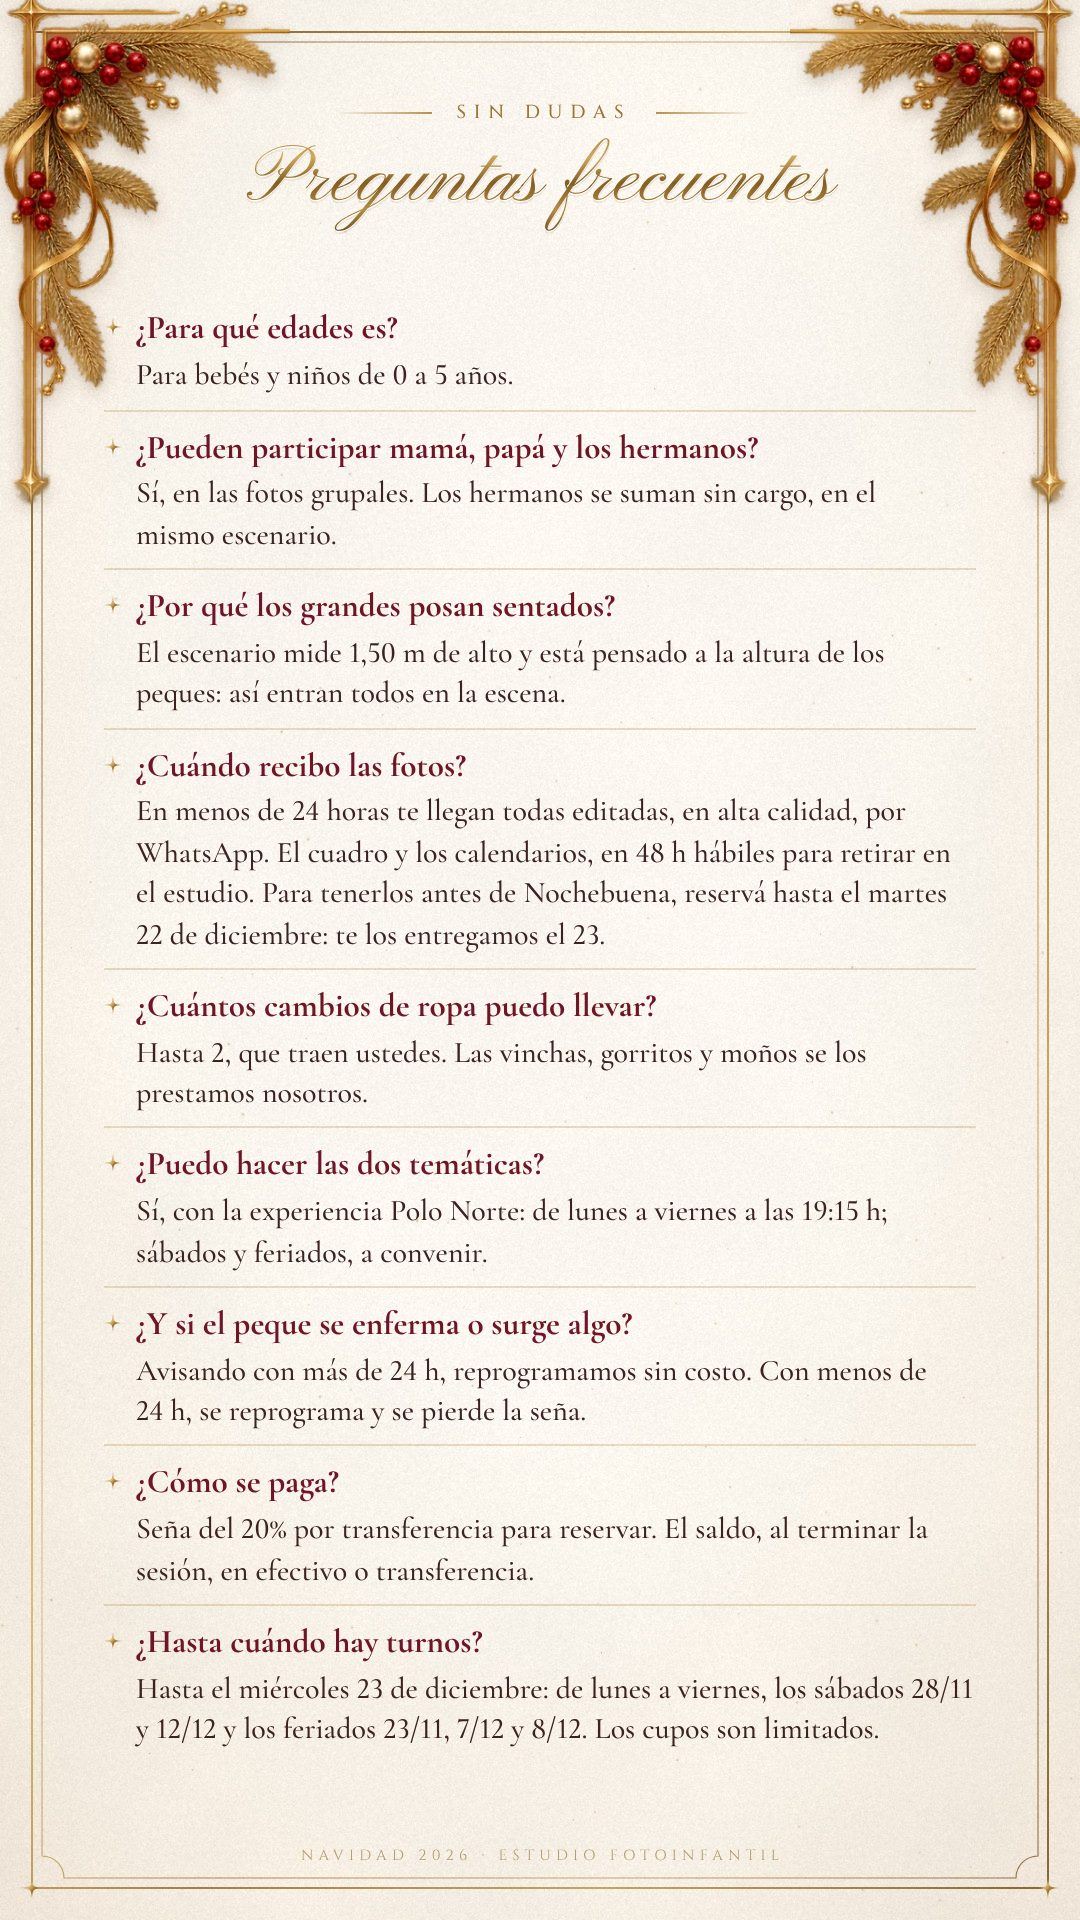
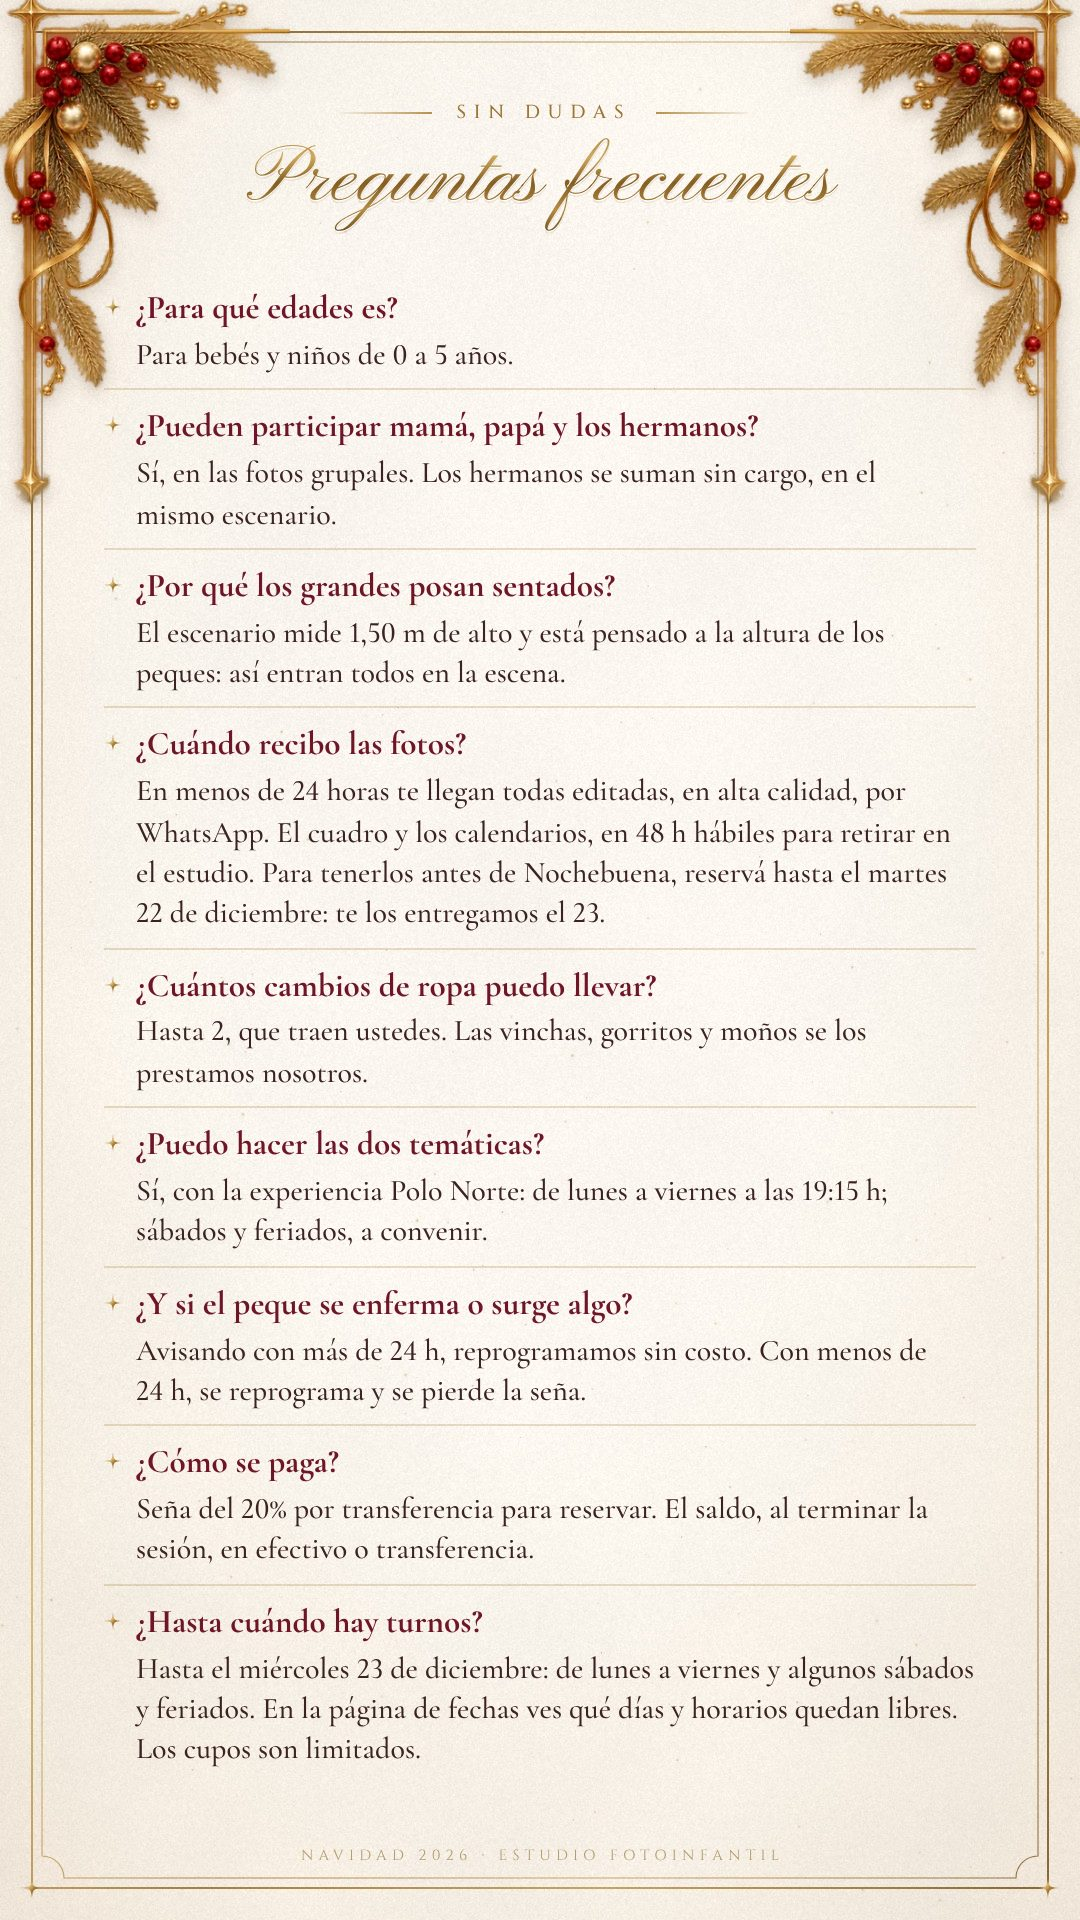
Navidad 2026 (navidad2): el calendario lee la agenda del panel
Días completos, días sin turnos (bloqueados en el panel) y «Próximos turnos libres» salen de la misma agenda que usa el panel (grilla + horarios extra − bloqueos − turnos tomados), en la web y en el PDF. Si no se puede leer la agenda, queda el calendario de antes.

Claude-Session: https://claude.ai/code/session_016rWcWKPNL1gNVstxUwshhh

Changed region(s): [[0.1222, 0.1562, 0.8861, 0.9375], [0.7028, 0.625, 0.7333, 0.6562], [0.7028, 0.25, 0.7333, 0.2812]]

diff --git a/navidad2/index.html b/navidad2/index.html
@@ -11,13 +11,13 @@
 <meta property="og:site_name" content="Estudio Fotoinfantil">
 <meta property="og:title" content="Navidad 2026 · Una propuesta pensada para tu familia">
 <meta property="og:description" content="Sesiones navideñas en Estudio Fotoinfantil · Cupos limitados">
-<meta property="og:image" content="https://estudiofotoinfantil.github.io/WebEstudio/navidad2/og.jpg?v=6e566b9e">
+<meta property="og:image" content="https://estudiofotoinfantil.github.io/WebEstudio/navidad2/og.jpg?v=6bbf0fc5">
 <meta property="og:image:width" content="1200">
 <meta property="og:image:height" content="630">
 <meta property="og:url" content="https://estudiofotoinfantil.github.io/WebEstudio/navidad2/">
 <meta name="twitter:card" content="summary_large_image">
-<link rel="icon" type="image/png" href="assets/favicon.png?v=6e566b9e">
-<link rel="apple-touch-icon" href="assets/apple-touch-icon.png?v=6e566b9e">
+<link rel="icon" type="image/png" href="assets/favicon.png?v=6bbf0fc5">
+<link rel="apple-touch-icon" href="assets/apple-touch-icon.png?v=6bbf0fc5">
 <link rel="preload" href="fonts/pinyon-script-latin-400-normal.woff2" as="font" type="font/woff2" crossorigin>
 <link rel="preload" href="fonts/ballet-static-400.woff2" as="font" type="font/woff2" crossorigin>
 <link rel="preload" href="fonts/cormorant-garamond-latin-500-italic.woff2" as="font" type="font/woff2" crossorigin>
@@ -40,8 +40,8 @@
   window.__fitK = k;
 })();
 </script>
-<script>window.NAV_V='6e566b9e';</script>
-<script src="config.js?v=6e566b9e"></script>
+<script>window.NAV_V='6bbf0fc5';</script>
+<script src="config.js?v=6bbf0fc5"></script>
 <style>
 @font-face{font-family:"Ballet";src:url(fonts/ballet-static-400.woff2) format("woff2");font-weight:400;font-display:block}
 @font-face{font-family:"Pinyon";src:url(fonts/pinyon-script-latin-400-normal.woff2) format("woff2");font-display:block}
@@ -286,9 +286,9 @@ ul.inc li .note{display:block;font-style:italic;font-weight:500;font-size:13px;c
 .cal .mh{display:flex;align-items:center;gap:10px;margin-bottom:5px}
 .cal .mh .rule{flex:1;height:1px;background:linear-gradient(90deg,#c6aa72,#f4ede2)}
 .cal .mh .rule.l{background:linear-gradient(270deg,#c6aa72,#f4ede2)}
-.cal .grid{display:grid;grid-template-columns:repeat(7,1fr);gap:5px}
+.cal .grid{display:grid;grid-template-columns:repeat(7,1fr);gap:4px}
 .cal .dow{text-align:center;font-family:"Cinzel";font-weight:600;font-size:8px;letter-spacing:.18em;color:var(--gold-txt);padding:2px 0 3px}
-.cal .d{position:relative;height:32px;border-radius:2px;display:flex;align-items:center;justify-content:center;font-family:"Cormorant";font-weight:600;font-size:15.5px}
+.cal .d{position:relative;height:28px;border-radius:2px;display:flex;align-items:center;justify-content:center;font-family:"Cormorant";font-weight:600;font-size:15.5px}
 .cal .d.wk{background:rgba(255,253,249,.92);box-shadow:inset 0 0 0 .8px rgba(176,138,70,.6);color:var(--ink)}
 .cal .d.we,.cal .d.fe{background:linear-gradient(180deg,#83192b,#5a0c1a);color:#f3dc9c;box-shadow:inset 0 0 0 .8px rgba(222,190,120,.55)}
 .cal .d.off{background:none;color:rgba(108,82,70,.38);box-shadow:inset 0 0 0 .6px rgba(176,138,70,.18)}
@@ -311,6 +311,9 @@ ul.inc li .note{display:block;font-style:italic;font-weight:500;font-size:13px;c
 .lg i{font-weight:500;color:var(--ink-soft)}
 .lg .ck{font-family:"Cinzel";font-size:9px;letter-spacing:.14em;color:var(--wine)}
 .lgrow{display:flex;gap:28px}
+.libres{padding:7px 0 6px;border-top:1px solid rgba(176,138,70,.3);border-bottom:1px solid rgba(176,138,70,.3);text-align:center}
+.libres .lt{font-family:"Cinzel";font-weight:600;font-size:8.6px;letter-spacing:.2em;color:var(--wine);margin-bottom:3px}
+.libres .ll{font-family:"Cormorant";font-weight:600;font-size:14.6px;line-height:1.35;color:var(--ink);white-space:nowrap;overflow:hidden;min-height:19px}
 .lg.pn{gap:8px;font-weight:500;color:var(--ink-soft);font-style:italic;padding-top:6px;border-top:1px solid rgba(176,138,70,.3);align-items:flex-start;line-height:1.3}
 .lg.pn>svg{flex:0 0 9px;width:9px;height:9px;margin-top:4px}
 .lg.pn b{font-style:normal;color:var(--wine)}
@@ -1464,7 +1467,7 @@ html.anim .pw.in.cover-w .rv{transform:none}
         
           <div class="d wk" data-date="2026-11-20"><span>20</span></div>
         
-          <div class="d off" data-date="2026-11-21"><span>21</span></div>
+          <div class="d we" data-date="2026-11-21"><span>21</span></div>
         
           <div class="d off" data-date="2026-11-22"><span>22</span></div>
         
@@ -1525,7 +1528,7 @@ html.anim .pw.in.cover-w .rv{transform:none}
         
           <div class="d wk" data-date="2026-12-04"><span>4</span></div>
         
-          <div class="d off" data-date="2026-12-05"><span>5</span></div>
+          <div class="d we" data-date="2026-12-05"><span>5</span></div>
         
           <div class="d off" data-date="2026-12-06"><span>6</span></div>
         
@@ -1553,7 +1556,7 @@ html.anim .pw.in.cover-w .rv{transform:none}
         
           <div class="d wk" data-date="2026-12-18"><span>18</span></div>
         
-          <div class="d off" data-date="2026-12-19"><span>19</span></div>
+          <div class="d we" data-date="2026-12-19"><span>19</span></div>
         
           <div class="d off" data-date="2026-12-20"><span>20</span></div>
         
@@ -1594,11 +1597,17 @@ html.anim .pw.in.cover-w .rv{transform:none}
   </div>
   <div class="legend">
     <div class="lg"><span class="k wk"></span><span>Lunes a viernes · <b>18:15 y 19:15&nbsp;h</b></span></div>
-    <div class="lg"><span class="k we"></span><span>Sábados 28/11 y 12/12 y feriados · <b>horario a coordinar</b></span></div>
+    <div class="lg"><span class="k we"></span><span>Sábados y feriados · <b>horarios según el día</b></span></div>
     <div class="lgrow">
       <div class="lg"><span class="k we"><svg viewBox="-1 -1 2 2" aria-hidden="true"><use href="#star4" x="-1" y="-1" width="2" height="2" fill="url(#gL)"/></svg></span>Feriado</div>
       <div class="lg"><span class="k fullk"></span><span class="ck">COMPLETO</span></div>
       <div class="lg"><span class="k off"></span><i>Sin turnos</i></div>
+    </div>
+    <div class="libres">
+      <div class="lt">PRÓXIMOS TURNOS LIBRES</div>
+      <div class="ll fitline" data-line="lib1" data-fs="14.6">Consultanos por WhatsApp los turnos libres</div>
+      <div class="ll fitline" data-line="lib2" data-fs="14.6"></div>
+      <div class="ll fitline" data-line="lib3" data-fs="14.6"></div>
     </div>
     <div class="lg pn"><svg viewBox="-1 -1 2 2" aria-hidden="true"><use href="#star4" x="-1" y="-1" width="2" height="2" fill="url(#gD)"/></svg><span>Destello de lunes a viernes: <b>$65.000</b>. Sábados y feriados: <b>$79.000</b>.</span></div>
     <div class="lg pn"><svg viewBox="-1 -1 2 2" aria-hidden="true"><use href="#star4" x="-1" y="-1" width="2" height="2" fill="url(#gD)"/></svg><span>Polo Norte: de lunes a viernes a las <b>19:15&nbsp;h</b>; sábados y feriados, a convenir.</span></div>
@@ -1730,7 +1739,7 @@ html.anim .pw.in.cover-w .rv{transform:none}
       
       <div class="qa"><div class="q"><svg viewBox="-1 -1 2 2" aria-hidden="true"><use href="#star4" x="-1" y="-1" width="2" height="2" fill="url(#gD)"/></svg>¿Cómo se paga?</div><div class="a">Seña del 20% por transferencia para reservar. El saldo, al terminar la sesión, en efectivo o transferencia.</div></div>
       
-      <div class="qa"><div class="q"><svg viewBox="-1 -1 2 2" aria-hidden="true"><use href="#star4" x="-1" y="-1" width="2" height="2" fill="url(#gD)"/></svg>¿Hasta cuándo hay turnos?</div><div class="a">Hasta el miércoles 23 de diciembre: de lunes a viernes, los sábados 28/11 y 12/12 y los feriados 23/11, 7/12 y 8/12. Los cupos son limitados.</div></div>
+      <div class="qa"><div class="q"><svg viewBox="-1 -1 2 2" aria-hidden="true"><use href="#star4" x="-1" y="-1" width="2" height="2" fill="url(#gD)"/></svg>¿Hasta cuándo hay turnos?</div><div class="a">Hasta el miércoles 23 de diciembre: de lunes a viernes y algunos sábados y feriados. En la página de fechas ves qué días y horarios quedan libres. Los cupos son limitados.</div></div>
       
     </div>
   </div>
@@ -1812,7 +1821,7 @@ html.anim .pw.in.cover-w .rv{transform:none}
 </div>
 <div class="toast" id="toast" role="status" aria-live="polite"></div>
 
-<script src="app.js?v=6e566b9e" defer></script>
+<script src="app.js?v=6bbf0fc5" defer></script>
 <script src="../seguimiento.js?v=20261125" defer></script>
 </body>
 </html>

diff --git a/navidad2/app.js b/navidad2/app.js
@@ -111,15 +111,77 @@
   $$('[data-regalo]').forEach(function (el) { el.hidden = !regalo; });
 
   var LAST = C.ultimoDia || '2026-12-23';
-  $$('.cal .d[data-date]').forEach(function (d) {
-    var ds = d.getAttribute('data-date');
-    if (d.classList.contains('off')) return;
-    if (ds < HOY || ds > LAST) { d.className = 'd off'; return; }
-    if (completos === 'all' || completos.indexOf(ds) >= 0) {
-      d.classList.remove('wk', 'we', 'fe');
-      d.classList.add('full');
+  /* Calendario vinculado a la agenda del panel (26/11/2026): los mismos horarios que ve el panel
+     (grilla de lunes a viernes y de sábados + horarios extra − horarios y días bloqueados − turnos tomados).
+     Día sin horarios = sin turnos; día con horarios pero todos tomados = COMPLETO.
+     Si no se puede leer la agenda, quedan los días de config.js (completos y sinTurnos). */
+  var sinTurnos = PDFBG ? [] : (C.sinTurnos || []).slice();
+  var vivo = false;
+  function marcarCalendario() {
+    $$('.cal .d[data-date]').forEach(function (d) {
+      var ds = d.getAttribute('data-date');
+      if (d.getAttribute('data-base') == null) d.setAttribute('data-base', d.className);
+      var base = d.getAttribute('data-base');
+      d.className = base;
+      if (/\boff\b/.test(base)) return;
+      if (ds < HOY || ds > LAST || (vivo && ds === HOY) || sinTurnos.indexOf(ds) >= 0) { d.className = 'd off'; return; }
+      if (completos === 'all' || completos.indexOf(ds) >= 0) {
+        d.classList.remove('wk', 'we', 'fe');
+        d.classList.add('full');
+      }
+    });
+  }
+  marcarCalendario();
+
+  var DIAS = ['Dom', 'Lun', 'Mar', 'Mié', 'Jue', 'Vie', 'Sáb'];
+  function horaTxt(h) { return h === '18:00' ? '18:15' : (h === '19:00' ? '19:15' : h); }   // en la propuesta, 18:15 y 19:15
+  function listaHoras(hs) {
+    var t = hs.map(function (h) { h = horaTxt(h); return /:00$/.test(h) ? h.slice(0, -3) : h; });
+    return (t.length > 1 ? t.slice(0, -1).join(', ') + ' y ' + t[t.length - 1] : t[0]) + ' h';
+  }
+  function sumarDia(ds) {
+    var d = new Date(ds + 'T12:00:00Z'); d.setUTCDate(d.getUTCDate() + 1);
+    return d.toISOString().slice(0, 10);
+  }
+  function aplicarAgenda(a) {
+    var grilla = a.grilla || {}, sem = grilla.semana || [], sab = grilla.sabado || [];
+    var bloqDia = {}, bloqHora = {}, extra = {}, ocup = a.ocupados || {};
+    (a.bloqueos || []).forEach(function (b) {
+      if (!b || !b.fecha) return;
+      if (b.tipo === 'dia') bloqDia[b.fecha] = 1;
+      else if (b.tipo === 'slot' && b.horario) (bloqHora[b.fecha] = bloqHora[b.fecha] || []).push(b.horario);
+      else if (b.tipo === 'slot_extra' && b.horario) (extra[b.fecha] = extra[b.fecha] || []).push(b.horario);
+    });
+    var full = [], off = [], prox = [];
+    for (var ds = sumarDia(HOY); ds <= LAST; ds = sumarDia(ds)) {
+      var dow = new Date(ds + 'T12:00:00Z').getUTCDay();
+      var hs = bloqDia[ds] ? [] : (dow === 6 ? sab.slice() : (dow >= 1 && dow <= 5 ? sem.slice() : []));
+      if (!bloqDia[ds]) (extra[ds] || []).forEach(function (h) { if (hs.indexOf(h) < 0) hs.push(h); });
+      hs = hs.filter(function (h) { return (bloqHora[ds] || []).indexOf(h) < 0; }).sort();
+      var libres = hs.filter(function (h) { return (ocup[ds] || []).indexOf(h) < 0; });
+      if (!hs.length) off.push(ds);
+      else if (!libres.length) full.push(ds);
+      else if (prox.length < 6) prox.push(DIAS[dow] + ' ' + (+ds.slice(8)) + '/' + (+ds.slice(5, 7)) + ' · ' + listaHoras(libres));
     }
-  });
+    vivo = true;
+    sinTurnos = off;
+    if (completos !== 'all') completos = (C.completos || []).concat(full);
+    marcarCalendario();
+    T.lib1 = prox.length ? prox.slice(0, 2).join('   ·   ') : 'Por ahora no quedan turnos libres: escribinos por WhatsApp';
+    T.lib2 = prox.slice(2, 4).join('   ·   ');
+    T.lib3 = prox.slice(4, 6).join('   ·   ');
+    ['lib1', 'lib2', 'lib3'].forEach(function (k) { var el = $('[data-line="' + k + '"]'); if (el) el.textContent = T[k]; });
+    fitAll();
+  }
+  T.lib1 = 'Consultanos por WhatsApp los turnos libres'; T.lib2 = ''; T.lib3 = '';
+  if (!PDFBG && C.agenda && !Q.has('_noapi')) {
+    var ctl = window.AbortController ? new AbortController() : null;
+    var tmo = setTimeout(function () { if (ctl) ctl.abort(); }, 9000);
+    fetch(C.agenda + '?action=horarios', ctl ? { signal: ctl.signal, cache: 'no-store' } : { cache: 'no-store' })
+      .then(function (r) { return r.json(); })
+      .then(function (a) { clearTimeout(tmo); if (a && a.ok && a.ocupados) aplicarAgenda(a); })
+      .catch(function () { clearTimeout(tmo); });
+  }
 
   /* ---------------------------------------------------------------- utilidades */
   var toastEl = $('#toast'), toastT;
@@ -338,7 +400,7 @@
     var need = { off: [], full: [] };
     cells.forEach(function (c) {
       if (c.kind === 'off') return;
-      if (c.date < HOY || c.date > LAST) need.off.push(c);
+      if (c.date < HOY || c.date > LAST || (vivo && c.date === HOY) || sinTurnos.indexOf(c.date) >= 0) need.off.push(c);
       else if (completos === 'all' || completos.indexOf(c.date) >= 0) need.full.push(c);
     });
     for (var k of ['off', 'full']) {

diff --git a/navidad2/config.js b/navidad2/config.js
@@ -1,9 +1,16 @@
 /* Configuración de la propuesta Navidad 2026 · Estudio Fotoinfantil
-   completos: días sin turnos, formato AAAA-MM-DD (ej: "2026-12-19").
+   El calendario lee la agenda del panel (agenda): días completos y turnos libres salen solos.
+   completos: días que se marcan COMPLETO aunque la agenda diga otra cosa (AAAA-MM-DD).
+   sinTurnos: días sin turnos que se usan solo si no se puede leer la agenda.
    regaloHasta: último día en que se muestra el regalo de octubre. */
 window.NAVIDAD = {
   "whatsapp": "5491130448139",
   "regaloHasta": "2026-10-31",
   "ultimoDia": "2026-12-23",
-  "completos": []
+  "completos": [],
+  "agenda": "https://script.google.com/macros/s/AKfycbxlWQSw4Bj2PYrJlnUVC4QdpcYAVV0vIu-ZqenCTMEOgbolkSfKY_Gr1h140VeMAc3YXw/exec",
+  "sinTurnos": [
+    "2026-12-05",
+    "2026-12-19"
+  ]
 };
